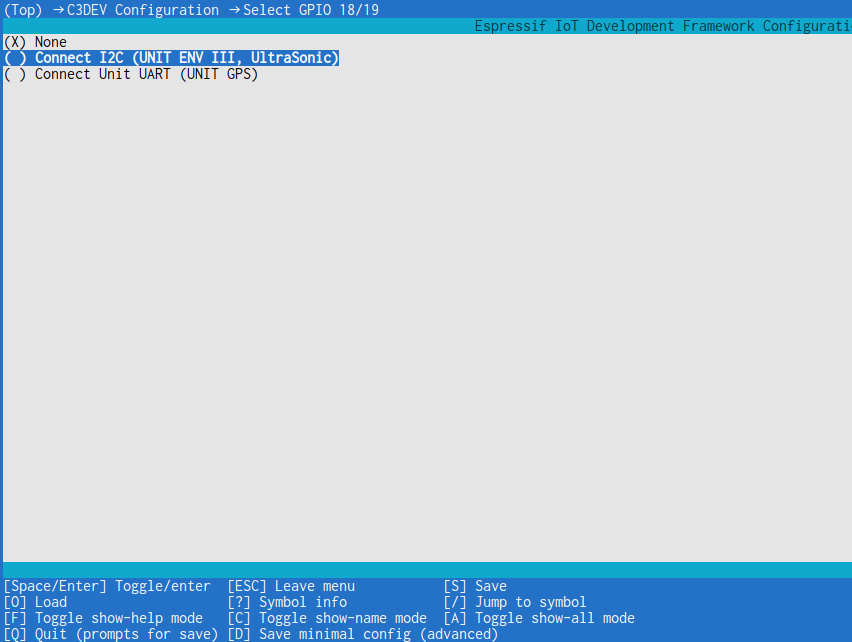
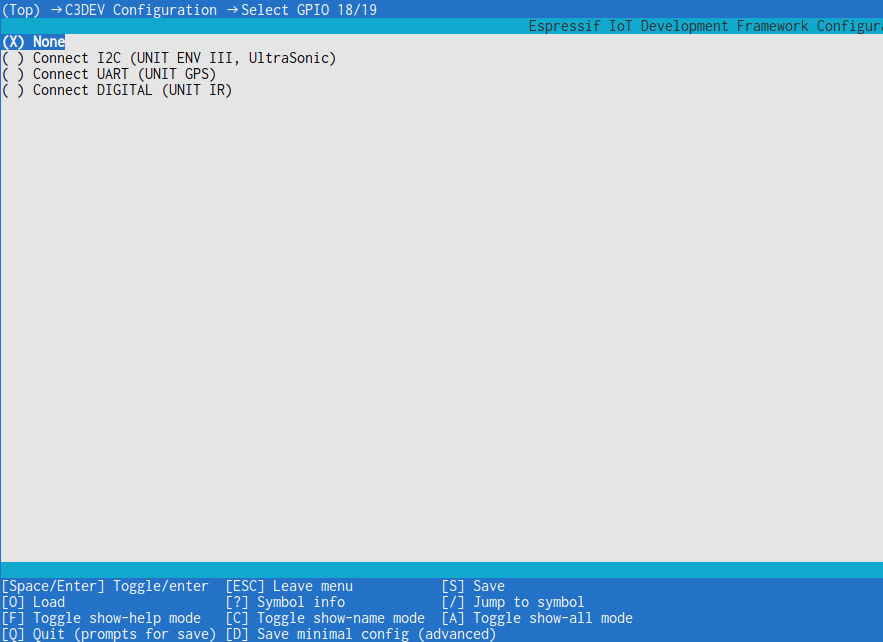
update README

Changed region(s): [[0.0, 0.9034, 0.7324, 1.0], [0.0, 0.0, 0.4577, 0.1558], [0.5493, 0.0312, 1.0, 0.0623]]

diff --git a/README.md b/README.md
@@ -31,6 +31,8 @@ This is a development board for the [M5Stamp C3](https://shop.m5stack.com/produc
     - UNIT ULTRASONIC - [test_i2c_gpio1819.cpp](https://github.com/h1romas4/m5stamp-c3dev/blob/main/main/test_i2c_gpio1819.cpp#L52-L61)
 - Test UART on GPIO18, 19
     - UNIT GPS - [test_uart_gpio1819.cpp](https://github.com/h1romas4/m5stamp-c3dev/blob/main/main/test_uart_gpio1819.cpp)
+- Test DIGITAL on GPIO18, 19
+    - UNIT IR - [test_digit_gpio1819.cpp](https://github.com/h1romas4/m5stamp-c3dev/blob/main/main/test_digit_gpio1819.cpp)
 - WebAssembly execution with Wasm3
     - Analog clock using AssemblyScript - [test_wasm3_clockenv.cpp](https://github.com/h1romas4/m5stamp-c3dev/blob/main/main/test_wasm3_clockenv.cpp)
     - GPS GSV viewer using AssemblyScript - [test_wasm3_gpsgsv.cpp](https://github.com/h1romas4/m5stamp-c3dev/blob/main/main/test_wasm3_gpsgsv.cpp)
